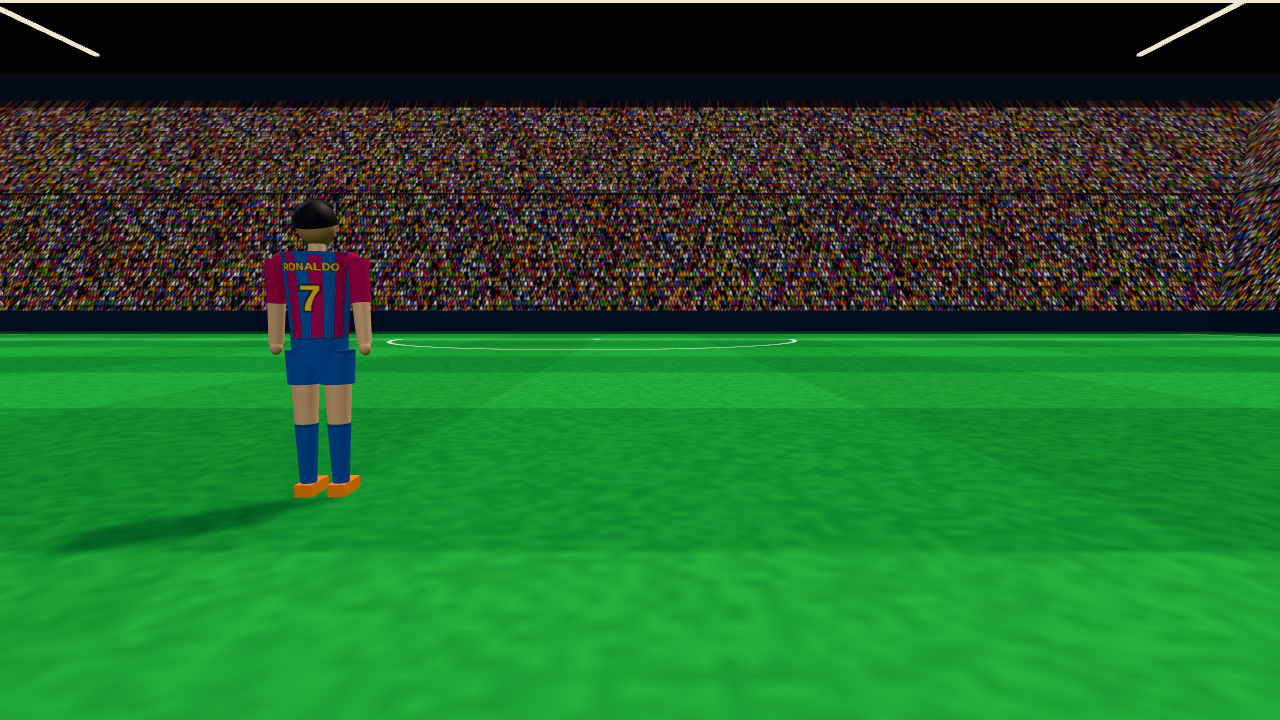
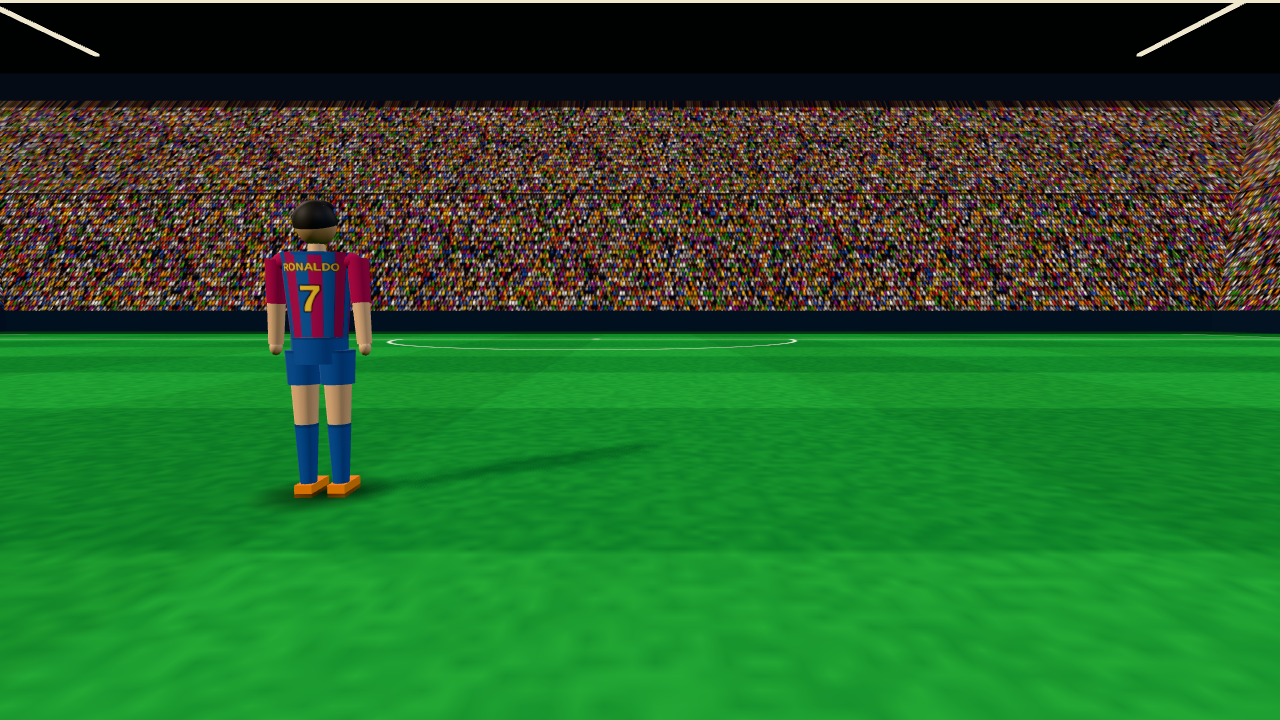
Fase 2: torres de focos, IBL procedural, sombras de contacto y volúmenes suaves
- Cuatro torres de iluminación: una dominante con sombras PCF suaves calibradas
  (frustum al campo, bias/normalBias) y tres de relleno, en unidades físicas
- Entorno procedural permanente con paneles HDR en los focos (PMREM) y
  scene.environmentIntensity
- Sombras de contacto bajo cada jugador y el balón
- Conos volumétricos con fresnel y desvanecido; polvo más sutil con niebla

Claude-Session: https://claude.ai/code/session_01JYnFN99r8d1ASfZkdcj4WF

diff --git a/index.html b/index.html
@@ -4796,23 +4796,35 @@ function resize() { const w = window.innerWidth, h = window.innerHeight; rendere
 window.addEventListener('resize', resize); resize();
 
 // Iluminación de estadio nocturno: foco principal con sombras, relleno frío y contraluz para separar a los jugadores del césped
-const hemiL = new THREE.HemisphereLight(0xe4f0ff, 0x1c3a1c, 0.38 * LU), ambL = new THREE.AmbientLight(0xffffff, 0.06 * LU); scene.add(hemiL, ambL);
-// Mapa de entorno del estadio (cielo nocturno y focos) para reflejos físicos en piel sudada, botas, ojos y trofeos
+/* ---------- Iluminación de estadio (unidades físicas) ----------
+   Cuatro torres de focos en las esquinas. La del lado derecho de la portería es la luz dominante con sombras;
+   las otras tres iluminan sin sombras para que el jugador nunca quede de espaldas a toda la luz.
+   El relleno ambiental lo aporta el IBL procedural (paneles HDR en la posición real de los focos). */
+const TOWERS = [[-44, -14], [44, -14], [-44, 62], [44, 62]], TOWER_Y = 38;
+const hemiL = new THREE.HemisphereLight(0xdfe9ff, 0x14301a, 0.16 * LU), ambL = new THREE.AmbientLight(0xffffff, 0); scene.add(hemiL, ambL);
+// Entorno procedural PERMANENTE: cielo nocturno con resplandor en el horizonte, grada oscura, césped y los 4 focos en HDR.
+// Si en el futuro hay un HDRI (assets/manifest.json), se usa como calidad alta; el juego nunca depende de él.
 const ENV = (() => {
-  const es = new THREE.Scene(); es.background = new THREE.Color(0x0a1220);
-  const sky = new THREE.Mesh(new THREE.SphereGeometry(50, 24, 12), new THREE.MeshBasicMaterial({ color: 0x0b1626, side: THREE.BackSide })); es.add(sky);
-  const grass = new THREE.Mesh(new THREE.CircleGeometry(48, 24), new THREE.MeshBasicMaterial({ color: 0x14301a })); grass.rotation.x = -Math.PI / 2; grass.position.y = -6; es.add(grass);
-  for (let i = 0; i < 4; i++) { const a = Math.PI / 4 + i * Math.PI / 2, l = new THREE.Mesh(new THREE.BoxGeometry(10, 4, 1), new THREE.MeshBasicMaterial({ color: 0xffffff })); l.position.set(Math.cos(a) * 34, 26, Math.sin(a) * 34); l.lookAt(0, 0, 0); es.add(l); }
-  const ring = new THREE.Mesh(new THREE.TorusGeometry(40, 1.2, 6, 48), new THREE.MeshBasicMaterial({ color: 0x8aa0c0 })); ring.rotation.x = Math.PI / 2; ring.position.y = 12; es.add(ring);
-  const pm = new THREE.PMREMGenerator(renderer), t = pm.fromScene(es, 0.04).texture; pm.dispose(); return t;
+  const es = new THREE.Scene();
+  const skyGeo = new THREE.SphereGeometry(60, 32, 16), cols = [], top = new THREE.Color(0x03060d), hor = new THREE.Color(0x1d2a44), pos = skyGeo.attributes.position;
+  for (let i = 0; i < pos.count; i++) { const t = clamp(pos.getY(i) / 60, 0, 1); const c = hor.clone().lerp(top, Math.pow(t, 0.45)); cols.push(c.r, c.g, c.b); }
+  skyGeo.setAttribute('color', new THREE.Float32BufferAttribute(cols, 3));
+  es.add(new THREE.Mesh(skyGeo, new THREE.MeshBasicMaterial({ vertexColors: true, side: THREE.BackSide })));
+  const stands = new THREE.Mesh(new THREE.CylinderGeometry(52, 44, 26, 48, 1, true), new THREE.MeshBasicMaterial({ color: 0x141920, side: THREE.BackSide })); stands.position.y = 4; es.add(stands);
+  const grass = new THREE.Mesh(new THREE.CircleGeometry(46, 32), new THREE.MeshBasicMaterial({ color: 0x173d1d })); grass.rotation.x = -Math.PI / 2; grass.position.y = -8; es.add(grass);
+  for (const [x, z] of TOWERS) { const l = new THREE.Mesh(new THREE.BoxGeometry(9, 4.5, 1), new THREE.MeshBasicMaterial({ color: new THREE.Color(0xfff2dc).multiplyScalar(24) })); l.position.set(x * 0.85, 30, (z - 24) * 0.85); l.lookAt(0, 0, 0); es.add(l); }
+  const pm = new THREE.PMREMGenerator(renderer), t = pm.fromScene(es, 0.03).texture; pm.dispose(); return t;
 })();
-scene.environment = ENV;
-const sun = new THREE.DirectionalLight(0xfff6e6, 0.95 * LU);
-sun.position.set(-18, 40, 34); sun.target.position.set(0, 0, 14); scene.add(sun, sun.target);
+scene.environment = ENV; scene.environmentIntensity = 0.9;
+// Luz dominante: torre delantera derecha (ilumina el pecho de quien ataca la portería y proyecta sombras hacia la cámara)
+const sun = new THREE.DirectionalLight(0xfff3e2, 1.05 * LU);
+sun.position.set(44, TOWER_Y, -14); sun.target.position.set(0, 0, 20); scene.add(sun, sun.target);
 sun.castShadow = true; sun.shadow.mapSize.set(2048, 2048);
-Object.assign(sun.shadow.camera, { left: -32, right: 32, top: 32, bottom: -32, near: 5, far: 120 }); sun.shadow.bias = -0.0006; sun.shadow.normalBias = 0.02; sun.shadow.radius = 2.5;
-const fillL = new THREE.DirectionalLight(0xcfe0ff, 0.28 * LU); fillL.position.set(30, 26, 20); scene.add(fillL);
-const rimL = new THREE.DirectionalLight(0xffffff, 0.3 * LU); rimL.position.set(0, 22, -40); scene.add(rimL);
+// frustum ajustado al campo visto desde la torre (campo: x ±37, z -10…60)
+Object.assign(sun.shadow.camera, { left: -48, right: 48, top: 40, bottom: -40, near: 20, far: 140 }); sun.shadow.bias = -0.0003; sun.shadow.normalBias = 0.035; sun.shadow.radius = 3;
+const fillL = new THREE.DirectionalLight(0xe8efff, 0.36 * LU); fillL.position.set(-44, TOWER_Y, -14); fillL.target.position.set(0, 0, 20); scene.add(fillL, fillL.target);
+const rimL = new THREE.DirectionalLight(0xfff0dc, 0.34 * LU); rimL.position.set(44, TOWER_Y, 62); rimL.target.position.set(0, 0, 20); scene.add(rimL, rimL.target);
+const backL = new THREE.DirectionalLight(0xe8efff, 0.3 * LU); backL.position.set(-44, TOWER_Y, 62); backL.target.position.set(0, 0, 20); scene.add(backL, backL.target);
 
 const mkMat = c => new THREE.MeshLambertMaterial({ color: c });
 function pitchTexture() {
@@ -4880,7 +4892,7 @@ function stand(w, pos, ry) {
 }
 stand(140, new V3(0, 0, -9), 0); stand(120, new V3(-41, 0, 25), Math.PI / 2); stand(120, new V3(41, 0, 25), -Math.PI / 2); stand(140, new V3(0, 0, 66), Math.PI);
 const glowTex = (() => { const cv = document.createElement('canvas'); cv.width = cv.height = 128; const g = cv.getContext('2d'), gr = g.createRadialGradient(64, 64, 0, 64, 64, 64); gr.addColorStop(0, 'rgba(255,250,230,1)'); gr.addColorStop(0.25, 'rgba(255,245,210,.5)'); gr.addColorStop(1, 'rgba(255,240,200,0)'); g.fillStyle = gr; g.fillRect(0, 0, 128, 128); return srgbTex(new THREE.CanvasTexture(cv)); })();
-for (const [x, z] of [[-44, -14], [44, -14], [-44, 62], [44, 62]]) {
+for (const [x, z] of TOWERS) {
   const pole = new THREE.Mesh(new THREE.CylinderGeometry(0.35, 0.5, 38, 8), mkMat(0x333a44)); pole.position.set(x, 19, z); ARENA.add(pole);
   const lamp = new THREE.Mesh(new THREE.BoxGeometry(7, 3.5, 0.6), new THREE.MeshBasicMaterial({ color: 0xfff7dc })); lamp.position.set(x, 38, z); lamp.lookAt(0, 0, 25); ARENA.add(lamp);
   const gl = new THREE.Sprite(new THREE.SpriteMaterial({ map: glowTex, transparent: true, depthWrite: false, blending: THREE.AdditiveBlending })); gl.scale.set(22, 22, 1); gl.position.set(x, 38, z); ARENA.add(gl);
@@ -4914,7 +4926,20 @@ function ballTexture() {
 }
 const ball = new THREE.Mesh(new THREE.SphereGeometry(0.11, 20, 14), new THREE.MeshLambertMaterial({ map: ballTexture() }));
 ball.position.set(0, 0.11, 11); scene.add(ball);
-const shadow = new THREE.Mesh(new THREE.CircleGeometry(0.15, 16), new THREE.MeshBasicMaterial({ color: 0x000000, transparent: true, opacity: 0.35 }));
+// Textura radial suave para sombras de contacto (pies de los jugadores y balón)
+// Haz de luz volumétrico: brillo según fresnel (bordes suaves), desvanecido a lo largo del haz y al acercarse al suelo
+// (aproximación sin textura de profundidad del «depth fade»; valores HDR para alimentar el bloom de la fase 5)
+function volumeMaterial(color, strength = 1) {
+  return new THREE.ShaderMaterial({
+    uniforms: { uColor: { value: new THREE.Color(color).multiplyScalar(strength) }, uOpacity: { value: 1 } },
+    vertexShader: 'varying vec3 vN; varying vec3 vV; varying float vH; varying float vY; void main(){ vec4 wp = modelMatrix * vec4(position, 1.0); vY = wp.y; vH = uv.y; vN = normalize(mat3(modelMatrix) * normal); vV = normalize(cameraPosition - wp.xyz); gl_Position = projectionMatrix * viewMatrix * wp; }',
+    fragmentShader: 'uniform vec3 uColor; uniform float uOpacity; varying vec3 vN; varying vec3 vV; varying float vH; varying float vY; void main(){ float f = abs(dot(normalize(vN), normalize(vV))); float edge = pow(f, 2.2); float along = smoothstep(0.0, 0.7, vH) * smoothstep(1.0, 0.9, vH); float ground = smoothstep(0.0, 2.5, vY); gl_FragColor = vec4(uColor * edge * along * ground * uOpacity, 1.0);\n#include <tonemapping_fragment>\n#include <colorspace_fragment>\n}',
+    transparent: true, blending: THREE.AdditiveBlending, depthWrite: false, side: THREE.DoubleSide,
+  });
+}
+const blobTex = (() => { const cv = document.createElement('canvas'); cv.width = cv.height = 64; const g = cv.getContext('2d'), gr = g.createRadialGradient(32, 32, 0, 32, 32, 32); gr.addColorStop(0, 'rgba(0,0,0,.75)'); gr.addColorStop(0.45, 'rgba(0,0,0,.4)'); gr.addColorStop(1, 'rgba(0,0,0,0)'); g.fillStyle = gr; g.fillRect(0, 0, 64, 64); return srgbTex(new THREE.CanvasTexture(cv)); })();
+const blobMat = new THREE.MeshBasicMaterial({ map: blobTex, transparent: true, depthWrite: false, polygonOffset: true, polygonOffsetFactor: -2, toneMapped: false });
+const shadow = new THREE.Mesh(new THREE.PlaneGeometry(0.42, 0.42), blobMat);
 shadow.rotation.x = -Math.PI / 2; shadow.position.set(0, 0.01, 11); scene.add(shadow);
 const reticle = new THREE.Group();
 const retRing = new THREE.Mesh(new THREE.RingGeometry(0.2, 0.28, 40), new THREE.MeshBasicMaterial({ color: 0x3cf08a, transparent: true, opacity: 0.95, depthTest: false, toneMapped: false }));
@@ -5081,7 +5106,9 @@ function makeFigure() {
     pv.userData.knee = knee; pv.userData.boot = boot; return pv;
   };
   const legL = leg(-1), legR = leg(1);
-  g.userData = { mats, hair, legL, legR, armL, armR, upper, kneeL: legL.userData.knee, kneeR: legR.userData.knee, gloves: [armL, armR].map(a => a.children.find(c => c.material === mats.glove)) };
+  // sombra de contacto (oclusión bajo los pies); se mantiene pegada al suelo aunque la figura salte
+  const blob = new THREE.Mesh(new THREE.PlaneGeometry(0.95, 0.95), blobMat); blob.rotation.x = -Math.PI / 2; blob.position.y = 0.012; blob.renderOrder = 1; g.add(blob);
+  g.userData = { blob, mats, hair, legL, legR, armL, armR, upper, kneeL: legL.userData.knee, kneeR: legR.userData.knee, gloves: [armL, armR].map(a => a.children.find(c => c.material === mats.glove)) };
   return g;
 }
 function dressFigure(f, lk) {
@@ -5412,8 +5439,11 @@ function stepKick(f, dt) {
   if (!K.hit && K.t >= K.def.hit) { K.hit = true; if (K.onContact) K.onContact(); }
   if (K.t >= 1) { u.kickA = null; f.position.y = 0; }
 }
+function groundBlob(f, rootY = 0) { const b = f.userData.blob, h = f.position.y + rootY; b.position.y = 0.012 - h; const k = clamp(1 - h * 0.7, 0.35, 1); b.scale.set(k, k, k); }
 function animFigures(dt) {
+  groundBlob(keeper, keeperRoot.position.y);
   for (const f of FIGS) {
+    if (f.visible) groundBlob(f);
     const u = f.userData;
     // el golpeo avanza aunque la figura esté oculta (en 1ª persona no se ve al protagonista)
     if (u.kickA) { stepKick(f, dt); if (u.last) u.last.copy(f.position); continue; }
@@ -6111,7 +6141,7 @@ function ceremony(kind, team, national, sub, title) {
     if (kind !== 'bdo') FIGS.forEach(f => { if (f.visible) f.position.y = 0; });
     const conf = particles(cfg.confetti, 0.16, cfg.cols.concat([clubColor(team), kit.a]), false);
     const cv = []; { const P = conf.geometry.attributes.position.array; for (let i = 0; i < cfg.confetti; i++) { P[i * 3] = C0.x + rand(-26, 26); P[i * 3 + 1] = rand(6, 34); P[i * 3 + 2] = C0.z + rand(-22, 22); cv.push(rand(-0.6, 0.6), -rand(1.2, 2.6), rand(-0.6, 0.6)); } }
-    const beams = cfg.beams.map((c, i) => { const m = new THREE.Mesh(new THREE.ConeGeometry(2.6, 30, 24, 1, true), new THREE.MeshBasicMaterial({ color: c, transparent: true, opacity: 0.11, blending: THREE.AdditiveBlending, depthWrite: false, side: THREE.DoubleSide })); m.userData.a = i / cfg.beams.length * Math.PI * 2; cerGroup.add(m); return m; });
+    const beams = cfg.beams.map((c, i) => { const m = new THREE.Mesh(new THREE.ConeGeometry(2.6, 30, 32, 1, true), volumeMaterial(c, 0.22)); m.userData.a = i / cfg.beams.length * Math.PI * 2; cerGroup.add(m); return m; });
     const spot = new THREE.SpotLight(0xfff4dd, legacyCd(1.3, 16, 60), 60, 0.5, 0.6, 2); spot.position.set(C0.x, 22, C0.z + 6); spot.target.position.copy(C0); cerGroup.add(spot, spot.target);
     const saved = [hemiL.intensity, ambL.intensity, sun.intensity];
     hemiL.intensity *= cfg.dim; ambL.intensity *= cfg.dim; sun.intensity *= Math.max(0.5, cfg.dim);
@@ -6198,14 +6228,14 @@ function portrait() {
     const fill = new THREE.PointLight(0x9fb8ff, legacyCd(0.35, 2.5, 8), 8, 2); fill.position.set(1.5, 1.2, 27.5);
     rig.add(key, key.target, rimB, rimB.target, rimO, rimO.target, fill);
     // haces de luz volumétricos desde los focos del fondo
-    const shafts = [-1, 0, 1].map((i, k) => { const m = new THREE.Mesh(new THREE.ConeGeometry(1.6 + k * 0.4, 18, 24, 1, true), new THREE.MeshBasicMaterial({ color: k === 1 ? 0xffe6c4 : 0x9cc4ff, transparent: true, opacity: 0.035, blending: THREE.AdditiveBlending, depthWrite: false, side: THREE.DoubleSide })); m.position.set(i * 3.5, 9, 37); m.rotation.x = -0.55; m.rotation.z = -i * 0.25; rig.add(m); return m; });
+    const shafts = [-1, 0, 1].map((i, k) => { const m = new THREE.Mesh(new THREE.ConeGeometry(1.6 + k * 0.4, 18, 32, 1, true), volumeMaterial(k === 1 ? 0xffe6c4 : 0x9cc4ff, 0.09)); m.position.set(i * 3.5, 9, 37); m.rotation.x = -0.55; m.rotation.z = -i * 0.25; rig.add(m); return m; });
     // polvo en suspensión iluminado
-    const N = 500, geo = new THREE.BufferGeometry(), P = new Float32Array(N * 3);
+    const N = 220, geo = new THREE.BufferGeometry(), P = new Float32Array(N * 3);
     for (let i = 0; i < N; i++) P.set([rand(-3, 3), rand(0.2, 3.4), C0.z + rand(-2.5, 3)], i * 3);
     geo.setAttribute('position', new THREE.BufferAttribute(P, 3));
-    const dust = new THREE.Points(geo, new THREE.PointsMaterial({ color: 0xffe9cc, map: glowTex, size: 0.035, transparent: true, opacity: 0.55, blending: THREE.AdditiveBlending, depthWrite: false })); rig.add(dust);
-    const saved = { hemi: hemiL.intensity, amb: ambL.intensity, sun: sun.intensity, fill: fillL.intensity, rim: rimL.intensity, fog: [scene.fog.near, scene.fog.far], exp: renderer.toneMappingExposure };
-    hemiL.intensity = 0.06 * LU; ambL.intensity = 0.02 * LU; sun.intensity = 0.08 * LU; fillL.intensity = 0.03 * LU; rimL.intensity = 0.06 * LU; scene.fog.near = 6; scene.fog.far = 40; renderer.toneMappingExposure = RENDER.exp * 1.05; pitch.material.color.setHex(0x6f7f6f);
+    const dust = new THREE.Points(geo, new THREE.PointsMaterial({ color: 0xffe9cc, map: glowTex, size: 0.028, sizeAttenuation: true, fog: true, transparent: true, opacity: 0.35, blending: THREE.AdditiveBlending, depthWrite: false })); rig.add(dust);
+    const saved = { hemi: hemiL.intensity, amb: ambL.intensity, sun: sun.intensity, fill: fillL.intensity, rim: rimL.intensity, back: backL.intensity, env: scene.environmentIntensity, fog: [scene.fog.near, scene.fog.far], exp: renderer.toneMappingExposure };
+    hemiL.intensity = 0.04 * LU; ambL.intensity = 0; sun.intensity = 0.08 * LU; fillL.intensity = 0.03 * LU; rimL.intensity = 0.05 * LU; backL.intensity = 0.03 * LU; scene.environmentIntensity = 0.3; scene.fog.near = 6; scene.fog.far = 40; renderer.toneMappingExposure = RENDER.exp * 1.05; pitch.material.color.setHex(0x6f7f6f);
     Object.assign(CINE, { on: true, t: 0, shot: 1, rig, shafts, dust, saved, C0 });
     ui.classList.remove('hidden', 'split', 'cer'); ui.classList.add('cine'); hud.classList.add('hidden');
     ui.innerHTML = `<div class="card"><div class="cineT"><small>${flagOf(S.nation)} ${esc(S.club)} · ${seasonLabel()}</small>${esc(S.name)} <span style="color:var(--gold)">${S.ovr}</span></div>
@@ -6216,7 +6246,7 @@ function portrait() {
     $('#cnBack').onclick = () => {
       sfx.click(); CINE.on = false; letterbox(); ui.classList.remove('cine'); ui.style.paddingBottom = '';
       scene.remove(rig); rig.traverse(o => { if (o.geometry) o.geometry.dispose(); });
-      hemiL.intensity = saved.hemi; ambL.intensity = saved.amb; sun.intensity = saved.sun; fillL.intensity = saved.fill; rimL.intensity = saved.rim; [scene.fog.near, scene.fog.far] = saved.fog; renderer.toneMappingExposure = saved.exp;
+      hemiL.intensity = saved.hemi; ambL.intensity = saved.amb; sun.intensity = saved.sun; fillL.intensity = saved.fill; rimL.intensity = saved.rim; backL.intensity = saved.back; scene.environmentIntensity = saved.env; [scene.fog.near, scene.fog.far] = saved.fog; renderer.toneMappingExposure = saved.exp;
       pitch.material.color.setHex(0xffffff); resetLimbs(player); keeperRoot.visible = true; ball.visible = true; shadow.visible = true; res();
     };
   });
@@ -6238,7 +6268,7 @@ function cineStep(dt) {
   u.upper.rotation.set(0.04 + br * 0.012, 0, 0); u.armL.rotation.set(0.08, 0, -0.16 - br * 0.02); u.armR.rotation.set(0.12, 0, 0.2 + br * 0.02);
   u.legL.rotation.set(0.02, 0, -0.05); u.legR.rotation.set(-0.04, 0, 0.07); u.kneeR.rotation.x = -0.08;
   player.position.y = br * 0.004;
-  K.shafts.forEach((m, i) => m.material.opacity = 0.03 + Math.sin(t * 0.9 + i * 2) * 0.01);
+  K.shafts.forEach((m, i) => m.material.uniforms.uOpacity.value = 0.85 + Math.sin(t * 0.9 + i * 2) * 0.15);
   const P = K.dust.geometry.attributes.position.array;
   for (let i = 0; i < P.length; i += 3) { P[i] += Math.sin(t * 0.3 + i) * 0.0015; P[i + 1] += 0.0025 + Math.cos(t * 0.5 + i) * 0.0008; if (P[i + 1] > 3.6) P[i + 1] = 0.2; }
   K.dust.geometry.attributes.position.needsUpdate = true;

diff --git a/src/index.html b/src/index.html
@@ -566,23 +566,35 @@ function resize() { const w = window.innerWidth, h = window.innerHeight; rendere
 window.addEventListener('resize', resize); resize();
 
 // Iluminación de estadio nocturno: foco principal con sombras, relleno frío y contraluz para separar a los jugadores del césped
-const hemiL = new THREE.HemisphereLight(0xe4f0ff, 0x1c3a1c, 0.38 * LU), ambL = new THREE.AmbientLight(0xffffff, 0.06 * LU); scene.add(hemiL, ambL);
-// Mapa de entorno del estadio (cielo nocturno y focos) para reflejos físicos en piel sudada, botas, ojos y trofeos
+/* ---------- Iluminación de estadio (unidades físicas) ----------
+   Cuatro torres de focos en las esquinas. La del lado derecho de la portería es la luz dominante con sombras;
+   las otras tres iluminan sin sombras para que el jugador nunca quede de espaldas a toda la luz.
+   El relleno ambiental lo aporta el IBL procedural (paneles HDR en la posición real de los focos). */
+const TOWERS = [[-44, -14], [44, -14], [-44, 62], [44, 62]], TOWER_Y = 38;
+const hemiL = new THREE.HemisphereLight(0xdfe9ff, 0x14301a, 0.16 * LU), ambL = new THREE.AmbientLight(0xffffff, 0); scene.add(hemiL, ambL);
+// Entorno procedural PERMANENTE: cielo nocturno con resplandor en el horizonte, grada oscura, césped y los 4 focos en HDR.
+// Si en el futuro hay un HDRI (assets/manifest.json), se usa como calidad alta; el juego nunca depende de él.
 const ENV = (() => {
-  const es = new THREE.Scene(); es.background = new THREE.Color(0x0a1220);
-  const sky = new THREE.Mesh(new THREE.SphereGeometry(50, 24, 12), new THREE.MeshBasicMaterial({ color: 0x0b1626, side: THREE.BackSide })); es.add(sky);
-  const grass = new THREE.Mesh(new THREE.CircleGeometry(48, 24), new THREE.MeshBasicMaterial({ color: 0x14301a })); grass.rotation.x = -Math.PI / 2; grass.position.y = -6; es.add(grass);
-  for (let i = 0; i < 4; i++) { const a = Math.PI / 4 + i * Math.PI / 2, l = new THREE.Mesh(new THREE.BoxGeometry(10, 4, 1), new THREE.MeshBasicMaterial({ color: 0xffffff })); l.position.set(Math.cos(a) * 34, 26, Math.sin(a) * 34); l.lookAt(0, 0, 0); es.add(l); }
-  const ring = new THREE.Mesh(new THREE.TorusGeometry(40, 1.2, 6, 48), new THREE.MeshBasicMaterial({ color: 0x8aa0c0 })); ring.rotation.x = Math.PI / 2; ring.position.y = 12; es.add(ring);
-  const pm = new THREE.PMREMGenerator(renderer), t = pm.fromScene(es, 0.04).texture; pm.dispose(); return t;
+  const es = new THREE.Scene();
+  const skyGeo = new THREE.SphereGeometry(60, 32, 16), cols = [], top = new THREE.Color(0x03060d), hor = new THREE.Color(0x1d2a44), pos = skyGeo.attributes.position;
+  for (let i = 0; i < pos.count; i++) { const t = clamp(pos.getY(i) / 60, 0, 1); const c = hor.clone().lerp(top, Math.pow(t, 0.45)); cols.push(c.r, c.g, c.b); }
+  skyGeo.setAttribute('color', new THREE.Float32BufferAttribute(cols, 3));
+  es.add(new THREE.Mesh(skyGeo, new THREE.MeshBasicMaterial({ vertexColors: true, side: THREE.BackSide })));
+  const stands = new THREE.Mesh(new THREE.CylinderGeometry(52, 44, 26, 48, 1, true), new THREE.MeshBasicMaterial({ color: 0x141920, side: THREE.BackSide })); stands.position.y = 4; es.add(stands);
+  const grass = new THREE.Mesh(new THREE.CircleGeometry(46, 32), new THREE.MeshBasicMaterial({ color: 0x173d1d })); grass.rotation.x = -Math.PI / 2; grass.position.y = -8; es.add(grass);
+  for (const [x, z] of TOWERS) { const l = new THREE.Mesh(new THREE.BoxGeometry(9, 4.5, 1), new THREE.MeshBasicMaterial({ color: new THREE.Color(0xfff2dc).multiplyScalar(24) })); l.position.set(x * 0.85, 30, (z - 24) * 0.85); l.lookAt(0, 0, 0); es.add(l); }
+  const pm = new THREE.PMREMGenerator(renderer), t = pm.fromScene(es, 0.03).texture; pm.dispose(); return t;
 })();
-scene.environment = ENV;
-const sun = new THREE.DirectionalLight(0xfff6e6, 0.95 * LU);
-sun.position.set(-18, 40, 34); sun.target.position.set(0, 0, 14); scene.add(sun, sun.target);
+scene.environment = ENV; scene.environmentIntensity = 0.9;
+// Luz dominante: torre delantera derecha (ilumina el pecho de quien ataca la portería y proyecta sombras hacia la cámara)
+const sun = new THREE.DirectionalLight(0xfff3e2, 1.05 * LU);
+sun.position.set(44, TOWER_Y, -14); sun.target.position.set(0, 0, 20); scene.add(sun, sun.target);
 sun.castShadow = true; sun.shadow.mapSize.set(2048, 2048);
-Object.assign(sun.shadow.camera, { left: -32, right: 32, top: 32, bottom: -32, near: 5, far: 120 }); sun.shadow.bias = -0.0006; sun.shadow.normalBias = 0.02; sun.shadow.radius = 2.5;
-const fillL = new THREE.DirectionalLight(0xcfe0ff, 0.28 * LU); fillL.position.set(30, 26, 20); scene.add(fillL);
-const rimL = new THREE.DirectionalLight(0xffffff, 0.3 * LU); rimL.position.set(0, 22, -40); scene.add(rimL);
+// frustum ajustado al campo visto desde la torre (campo: x ±37, z -10…60)
+Object.assign(sun.shadow.camera, { left: -48, right: 48, top: 40, bottom: -40, near: 20, far: 140 }); sun.shadow.bias = -0.0003; sun.shadow.normalBias = 0.035; sun.shadow.radius = 3;
+const fillL = new THREE.DirectionalLight(0xe8efff, 0.36 * LU); fillL.position.set(-44, TOWER_Y, -14); fillL.target.position.set(0, 0, 20); scene.add(fillL, fillL.target);
+const rimL = new THREE.DirectionalLight(0xfff0dc, 0.34 * LU); rimL.position.set(44, TOWER_Y, 62); rimL.target.position.set(0, 0, 20); scene.add(rimL, rimL.target);
+const backL = new THREE.DirectionalLight(0xe8efff, 0.3 * LU); backL.position.set(-44, TOWER_Y, 62); backL.target.position.set(0, 0, 20); scene.add(backL, backL.target);
 
 const mkMat = c => new THREE.MeshLambertMaterial({ color: c });
 function pitchTexture() {
@@ -650,7 +662,7 @@ function stand(w, pos, ry) {
 }
 stand(140, new V3(0, 0, -9), 0); stand(120, new V3(-41, 0, 25), Math.PI / 2); stand(120, new V3(41, 0, 25), -Math.PI / 2); stand(140, new V3(0, 0, 66), Math.PI);
 const glowTex = (() => { const cv = document.createElement('canvas'); cv.width = cv.height = 128; const g = cv.getContext('2d'), gr = g.createRadialGradient(64, 64, 0, 64, 64, 64); gr.addColorStop(0, 'rgba(255,250,230,1)'); gr.addColorStop(0.25, 'rgba(255,245,210,.5)'); gr.addColorStop(1, 'rgba(255,240,200,0)'); g.fillStyle = gr; g.fillRect(0, 0, 128, 128); return srgbTex(new THREE.CanvasTexture(cv)); })();
-for (const [x, z] of [[-44, -14], [44, -14], [-44, 62], [44, 62]]) {
+for (const [x, z] of TOWERS) {
   const pole = new THREE.Mesh(new THREE.CylinderGeometry(0.35, 0.5, 38, 8), mkMat(0x333a44)); pole.position.set(x, 19, z); ARENA.add(pole);
   const lamp = new THREE.Mesh(new THREE.BoxGeometry(7, 3.5, 0.6), new THREE.MeshBasicMaterial({ color: 0xfff7dc })); lamp.position.set(x, 38, z); lamp.lookAt(0, 0, 25); ARENA.add(lamp);
   const gl = new THREE.Sprite(new THREE.SpriteMaterial({ map: glowTex, transparent: true, depthWrite: false, blending: THREE.AdditiveBlending })); gl.scale.set(22, 22, 1); gl.position.set(x, 38, z); ARENA.add(gl);
@@ -684,7 +696,20 @@ function ballTexture() {
 }
 const ball = new THREE.Mesh(new THREE.SphereGeometry(0.11, 20, 14), new THREE.MeshLambertMaterial({ map: ballTexture() }));
 ball.position.set(0, 0.11, 11); scene.add(ball);
-const shadow = new THREE.Mesh(new THREE.CircleGeometry(0.15, 16), new THREE.MeshBasicMaterial({ color: 0x000000, transparent: true, opacity: 0.35 }));
+// Textura radial suave para sombras de contacto (pies de los jugadores y balón)
+// Haz de luz volumétrico: brillo según fresnel (bordes suaves), desvanecido a lo largo del haz y al acercarse al suelo
+// (aproximación sin textura de profundidad del «depth fade»; valores HDR para alimentar el bloom de la fase 5)
+function volumeMaterial(color, strength = 1) {
+  return new THREE.ShaderMaterial({
+    uniforms: { uColor: { value: new THREE.Color(color).multiplyScalar(strength) }, uOpacity: { value: 1 } },
+    vertexShader: 'varying vec3 vN; varying vec3 vV; varying float vH; varying float vY; void main(){ vec4 wp = modelMatrix * vec4(position, 1.0); vY = wp.y; vH = uv.y; vN = normalize(mat3(modelMatrix) * normal); vV = normalize(cameraPosition - wp.xyz); gl_Position = projectionMatrix * viewMatrix * wp; }',
+    fragmentShader: 'uniform vec3 uColor; uniform float uOpacity; varying vec3 vN; varying vec3 vV; varying float vH; varying float vY; void main(){ float f = abs(dot(normalize(vN), normalize(vV))); float edge = pow(f, 2.2); float along = smoothstep(0.0, 0.7, vH) * smoothstep(1.0, 0.9, vH); float ground = smoothstep(0.0, 2.5, vY); gl_FragColor = vec4(uColor * edge * along * ground * uOpacity, 1.0);\n#include <tonemapping_fragment>\n#include <colorspace_fragment>\n}',
+    transparent: true, blending: THREE.AdditiveBlending, depthWrite: false, side: THREE.DoubleSide,
+  });
+}
+const blobTex = (() => { const cv = document.createElement('canvas'); cv.width = cv.height = 64; const g = cv.getContext('2d'), gr = g.createRadialGradient(32, 32, 0, 32, 32, 32); gr.addColorStop(0, 'rgba(0,0,0,.75)'); gr.addColorStop(0.45, 'rgba(0,0,0,.4)'); gr.addColorStop(1, 'rgba(0,0,0,0)'); g.fillStyle = gr; g.fillRect(0, 0, 64, 64); return srgbTex(new THREE.CanvasTexture(cv)); })();
+const blobMat = new THREE.MeshBasicMaterial({ map: blobTex, transparent: true, depthWrite: false, polygonOffset: true, polygonOffsetFactor: -2, toneMapped: false });
+const shadow = new THREE.Mesh(new THREE.PlaneGeometry(0.42, 0.42), blobMat);
 shadow.rotation.x = -Math.PI / 2; shadow.position.set(0, 0.01, 11); scene.add(shadow);
 const reticle = new THREE.Group();
 const retRing = new THREE.Mesh(new THREE.RingGeometry(0.2, 0.28, 40), new THREE.MeshBasicMaterial({ color: 0x3cf08a, transparent: true, opacity: 0.95, depthTest: false, toneMapped: false }));
@@ -851,7 +876,9 @@ function makeFigure() {
     pv.userData.knee = knee; pv.userData.boot = boot; return pv;
   };
   const legL = leg(-1), legR = leg(1);
-  g.userData = { mats, hair, legL, legR, armL, armR, upper, kneeL: legL.userData.knee, kneeR: legR.userData.knee, gloves: [armL, armR].map(a => a.children.find(c => c.material === mats.glove)) };
+  // sombra de contacto (oclusión bajo los pies); se mantiene pegada al suelo aunque la figura salte
+  const blob = new THREE.Mesh(new THREE.PlaneGeometry(0.95, 0.95), blobMat); blob.rotation.x = -Math.PI / 2; blob.position.y = 0.012; blob.renderOrder = 1; g.add(blob);
+  g.userData = { blob, mats, hair, legL, legR, armL, armR, upper, kneeL: legL.userData.knee, kneeR: legR.userData.knee, gloves: [armL, armR].map(a => a.children.find(c => c.material === mats.glove)) };
   return g;
 }
 function dressFigure(f, lk) {
@@ -1182,8 +1209,11 @@ function stepKick(f, dt) {
   if (!K.hit && K.t >= K.def.hit) { K.hit = true; if (K.onContact) K.onContact(); }
   if (K.t >= 1) { u.kickA = null; f.position.y = 0; }
 }
+function groundBlob(f, rootY = 0) { const b = f.userData.blob, h = f.position.y + rootY; b.position.y = 0.012 - h; const k = clamp(1 - h * 0.7, 0.35, 1); b.scale.set(k, k, k); }
 function animFigures(dt) {
+  groundBlob(keeper, keeperRoot.position.y);
   for (const f of FIGS) {
+    if (f.visible) groundBlob(f);
     const u = f.userData;
     // el golpeo avanza aunque la figura esté oculta (en 1ª persona no se ve al protagonista)
     if (u.kickA) { stepKick(f, dt); if (u.last) u.last.copy(f.position); continue; }
@@ -1881,7 +1911,7 @@ function ceremony(kind, team, national, sub, title) {
     if (kind !== 'bdo') FIGS.forEach(f => { if (f.visible) f.position.y = 0; });
     const conf = particles(cfg.confetti, 0.16, cfg.cols.concat([clubColor(team), kit.a]), false);
     const cv = []; { const P = conf.geometry.attributes.position.array; for (let i = 0; i < cfg.confetti; i++) { P[i * 3] = C0.x + rand(-26, 26); P[i * 3 + 1] = rand(6, 34); P[i * 3 + 2] = C0.z + rand(-22, 22); cv.push(rand(-0.6, 0.6), -rand(1.2, 2.6), rand(-0.6, 0.6)); } }
-    const beams = cfg.beams.map((c, i) => { const m = new THREE.Mesh(new THREE.ConeGeometry(2.6, 30, 24, 1, true), new THREE.MeshBasicMaterial({ color: c, transparent: true, opacity: 0.11, blending: THREE.AdditiveBlending, depthWrite: false, side: THREE.DoubleSide })); m.userData.a = i / cfg.beams.length * Math.PI * 2; cerGroup.add(m); return m; });
+    const beams = cfg.beams.map((c, i) => { const m = new THREE.Mesh(new THREE.ConeGeometry(2.6, 30, 32, 1, true), volumeMaterial(c, 0.22)); m.userData.a = i / cfg.beams.length * Math.PI * 2; cerGroup.add(m); return m; });
     const spot = new THREE.SpotLight(0xfff4dd, legacyCd(1.3, 16, 60), 60, 0.5, 0.6, 2); spot.position.set(C0.x, 22, C0.z + 6); spot.target.position.copy(C0); cerGroup.add(spot, spot.target);
     const saved = [hemiL.intensity, ambL.intensity, sun.intensity];
     hemiL.intensity *= cfg.dim; ambL.intensity *= cfg.dim; sun.intensity *= Math.max(0.5, cfg.dim);
@@ -1968,14 +1998,14 @@ function portrait() {
     const fill = new THREE.PointLight(0x9fb8ff, legacyCd(0.35, 2.5, 8), 8, 2); fill.position.set(1.5, 1.2, 27.5);
     rig.add(key, key.target, rimB, rimB.target, rimO, rimO.target, fill);
     // haces de luz volumétricos desde los focos del fondo
-    const shafts = [-1, 0, 1].map((i, k) => { const m = new THREE.Mesh(new THREE.ConeGeometry(1.6 + k * 0.4, 18, 24, 1, true), new THREE.MeshBasicMaterial({ color: k === 1 ? 0xffe6c4 : 0x9cc4ff, transparent: true, opacity: 0.035, blending: THREE.AdditiveBlending, depthWrite: false, side: THREE.DoubleSide })); m.position.set(i * 3.5, 9, 37); m.rotation.x = -0.55; m.rotation.z = -i * 0.25; rig.add(m); return m; });
+    const shafts = [-1, 0, 1].map((i, k) => { const m = new THREE.Mesh(new THREE.ConeGeometry(1.6 + k * 0.4, 18, 32, 1, true), volumeMaterial(k === 1 ? 0xffe6c4 : 0x9cc4ff, 0.09)); m.position.set(i * 3.5, 9, 37); m.rotation.x = -0.55; m.rotation.z = -i * 0.25; rig.add(m); return m; });
     // polvo en suspensión iluminado
-    const N = 500, geo = new THREE.BufferGeometry(), P = new Float32Array(N * 3);
+    const N = 220, geo = new THREE.BufferGeometry(), P = new Float32Array(N * 3);
     for (let i = 0; i < N; i++) P.set([rand(-3, 3), rand(0.2, 3.4), C0.z + rand(-2.5, 3)], i * 3);
     geo.setAttribute('position', new THREE.BufferAttribute(P, 3));
-    const dust = new THREE.Points(geo, new THREE.PointsMaterial({ color: 0xffe9cc, map: glowTex, size: 0.035, transparent: true, opacity: 0.55, blending: THREE.AdditiveBlending, depthWrite: false })); rig.add(dust);
-    const saved = { hemi: hemiL.intensity, amb: ambL.intensity, sun: sun.intensity, fill: fillL.intensity, rim: rimL.intensity, fog: [scene.fog.near, scene.fog.far], exp: renderer.toneMappingExposure };
-    hemiL.intensity = 0.06 * LU; ambL.intensity = 0.02 * LU; sun.intensity = 0.08 * LU; fillL.intensity = 0.03 * LU; rimL.intensity = 0.06 * LU; scene.fog.near = 6; scene.fog.far = 40; renderer.toneMappingExposure = RENDER.exp * 1.05; pitch.material.color.setHex(0x6f7f6f);
+    const dust = new THREE.Points(geo, new THREE.PointsMaterial({ color: 0xffe9cc, map: glowTex, size: 0.028, sizeAttenuation: true, fog: true, transparent: true, opacity: 0.35, blending: THREE.AdditiveBlending, depthWrite: false })); rig.add(dust);
+    const saved = { hemi: hemiL.intensity, amb: ambL.intensity, sun: sun.intensity, fill: fillL.intensity, rim: rimL.intensity, back: backL.intensity, env: scene.environmentIntensity, fog: [scene.fog.near, scene.fog.far], exp: renderer.toneMappingExposure };
+    hemiL.intensity = 0.04 * LU; ambL.intensity = 0; sun.intensity = 0.08 * LU; fillL.intensity = 0.03 * LU; rimL.intensity = 0.05 * LU; backL.intensity = 0.03 * LU; scene.environmentIntensity = 0.3; scene.fog.near = 6; scene.fog.far = 40; renderer.toneMappingExposure = RENDER.exp * 1.05; pitch.material.color.setHex(0x6f7f6f);
     Object.assign(CINE, { on: true, t: 0, shot: 1, rig, shafts, dust, saved, C0 });
     ui.classList.remove('hidden', 'split', 'cer'); ui.classList.add('cine'); hud.classList.add('hidden');
     ui.innerHTML = `<div class="card"><div class="cineT"><small>${flagOf(S.nation)} ${esc(S.club)} · ${seasonLabel()}</small>${esc(S.name)} <span style="color:var(--gold)">${S.ovr}</span></div>
@@ -1986,7 +2016,7 @@ function portrait() {
     $('#cnBack').onclick = () => {
       sfx.click(); CINE.on = false; letterbox(); ui.classList.remove('cine'); ui.style.paddingBottom = '';
       scene.remove(rig); rig.traverse(o => { if (o.geometry) o.geometry.dispose(); });
-      hemiL.intensity = saved.hemi; ambL.intensity = saved.amb; sun.intensity = saved.sun; fillL.intensity = saved.fill; rimL.intensity = saved.rim; [scene.fog.near, scene.fog.far] = saved.fog; renderer.toneMappingExposure = saved.exp;
+      hemiL.intensity = saved.hemi; ambL.intensity = saved.amb; sun.intensity = saved.sun; fillL.intensity = saved.fill; rimL.intensity = saved.rim; backL.intensity = saved.back; scene.environmentIntensity = saved.env; [scene.fog.near, scene.fog.far] = saved.fog; renderer.toneMappingExposure = saved.exp;
       pitch.material.color.setHex(0xffffff); resetLimbs(player); keeperRoot.visible = true; ball.visible = true; shadow.visible = true; res();
     };
   });
@@ -2008,7 +2038,7 @@ function cineStep(dt) {
   u.upper.rotation.set(0.04 + br * 0.012, 0, 0); u.armL.rotation.set(0.08, 0, -0.16 - br * 0.02); u.armR.rotation.set(0.12, 0, 0.2 + br * 0.02);
   u.legL.rotation.set(0.02, 0, -0.05); u.legR.rotation.set(-0.04, 0, 0.07); u.kneeR.rotation.x = -0.08;
   player.position.y = br * 0.004;
-  K.shafts.forEach((m, i) => m.material.opacity = 0.03 + Math.sin(t * 0.9 + i * 2) * 0.01);
+  K.shafts.forEach((m, i) => m.material.uniforms.uOpacity.value = 0.85 + Math.sin(t * 0.9 + i * 2) * 0.15);
   const P = K.dust.geometry.attributes.position.array;
   for (let i = 0; i < P.length; i += 3) { P[i] += Math.sin(t * 0.3 + i) * 0.0015; P[i + 1] += 0.0025 + Math.cos(t * 0.5 + i) * 0.0008; if (P[i + 1] > 3.6) P[i + 1] = 0.2; }
   K.dust.geometry.attributes.position.needsUpdate = true;

diff --git a/RENDER_AUDIT.md b/RENDER_AUDIT.md
@@ -183,3 +183,15 @@ En las capturas (mismos planos):
 | Plano general | 868 / 68 572 | 934 / 72 882 |
 
 El plano general sube por la cámara de sombras de r186, que procesa más objetos en el frustum. El problema de draw calls se ataca en la fase 6.
+
+---
+
+# Fase 2 — Iluminación de estadio e IBL (hecha)
+
+- **Torres de focos:** cuatro torres en las esquinas (`TOWERS`). La delantera derecha es la **luz dominante** con sombras: PCF con `radius = 3`, mapa de 2048 y frustum ajustado al campo (96×80 m vistos desde la torre), `bias = -0.0003` y `normalBias = 0.035`. En las capturas de cerca no hay acné ni peter-panning. Las otras tres iluminan sin sombras, así que el jugador nunca queda totalmente a contraluz. Intensidades físicas: dominante 1.05π; las demás 0.30-0.36π; hemisférica 0.16π; ambiente 0.
+- **IBL procedural permanente:** cielo con gradiente y resplandor en el horizonte, grada oscura, césped y **cuatro paneles HDR** (×24) en la posición real de los focos, pasados por `PMREMGenerator.fromScene`. `scene.environmentIntensity = 0.9`. HDRI de Poly Haven: **dominio bloqueado**; queda como opción de calidad alta en el manifest (fase 4).
+- **Sombras de contacto:** cada figura lleva una textura radial suave bajo los pies, que se queda pegada al suelo al saltar y encoge con la altura. El balón usa la misma.
+- **Conos volumétricos:** `volumeMaterial()`, un ShaderMaterial con fresnel (los bordes se desvanecen), degradado a lo largo del haz y fundido al acercarse al suelo. Usa valores HDR y pasa por tone mapping. Lo usan el retrato y las ceremonias. *Depth fade* exacto contra la escena: pendiente de la textura de profundidad de la fase 5.
+- **Polvo:** de 500 a 220 *sprites* redondos con atenuación por tamaño, niebla y opacidad 0.35.
+
+Pendiente de la fase 3: el césped y la grada siguen siendo texturas de canvas saturadas o ruidosas (césped `#1b9c30`).
